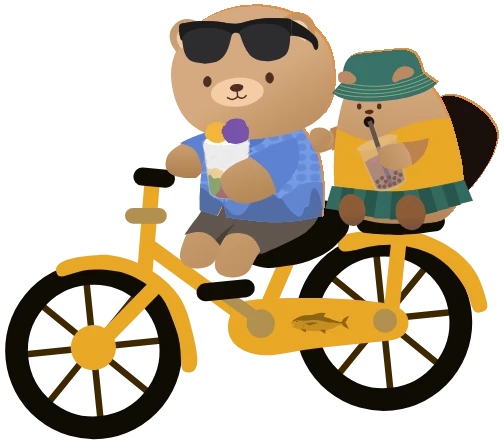
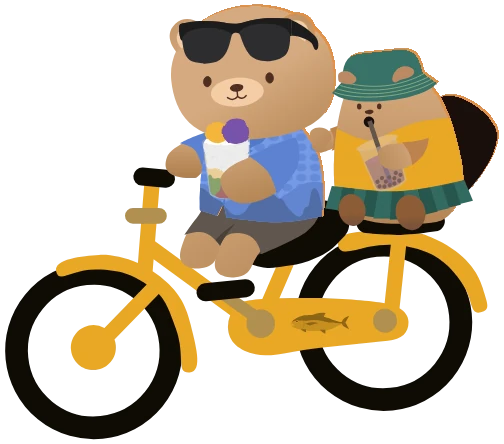
feat(about): turn the bike wheels as the riders roll

diff --git a/src/components/about/about-riders.tsx b/src/components/about/about-riders.tsx
@@ -51,28 +51,63 @@ const progressFor = (rect: DOMRect, vh: number) => {
   return Math.max(-1, Math.min(1, pass / SPAN));
 };
 
+/** The bike's wheels, in the riders' box (design px from its top-left, in
+ * the desktop frame's art). The spokes are drawn here rather than in the
+ * WebP so they can turn; the tyres are round, so they stay in it. */
+const WHEELS = [
+  { x: 560.866 - 514, y: 645.287 - 470 },
+  { x: 705.814 - 514, y: 631.169 - 470 },
+];
+/** The spokes' reach, and the tyre's outer radius, which is what rolls. */
+const SPOKE_R = 38.6;
+const ROLL_R = 44.3;
+
+/** One wheel's spokes (Figma "bike"), centred on the hub. */
+const Spokes = ({ x, y }: { x: number; y: number }) => (
+  <svg
+    viewBox={`${-SPOKE_R} ${-SPOKE_R} ${SPOKE_R * 2} ${SPOKE_R * 2}`}
+    fill="none"
+    aria-hidden="true"
+    className="absolute"
+    style={{
+      left: `${((x - SPOKE_R) / ART_W) * 100}%`,
+      top: `${((y - SPOKE_R) / ART_H) * 100}%`,
+      width: `${((SPOKE_R * 2) / ART_W) * 100}%`,
+      rotate: "var(--spin, 0deg)",
+    }}
+  >
+    <path
+      stroke="#3D2800"
+      strokeWidth="3.251"
+      d="m3.658 36.864-7.383-71.949m-32.283 37.146 71.948-7.383m-59.908 33.037 45.655-56.095m-48.578 5.081 56.096 45.656"
+    />
+  </svg>
+);
+
 const SRC = "/assets/about/riders@2x.webp";
 /** The width (design px) the riders WebPs were rendered for: their box in
  * the desktop frame. The phone scene draws the same art smaller. */
 const ART_W = 252;
+const ART_H = 222;
 
 /**
  * The bear, Nugget and the bike, rolling over the arched bridge as the page
  * scrolls: in from the right end as the section comes in, on their Figma spot
  * when the section is centred in the viewport, and off toward the left end as
  * it leaves.
- * They ride the arch, tilting with it. Each frame they ease toward where the
+ * They ride the arch, tilting with it, and the wheels turn by how far they
+ * have rolled. Each frame they ease toward where the
  * scroll puts them (FOLLOW_S), and the position is written straight to the
  * element's style, so React never re-renders for it.
  */
 export const AboutRiders = ({ path }: { path: RidersPath }) => {
-  const ref = useRef<HTMLImageElement>(null);
+  const ref = useRef<HTMLDivElement>(null);
   const { frame, box } = path;
 
   useEffect(() => {
-    const img = ref.current;
-    const section = img?.closest("section");
-    if (!img || !section) return;
+    const riders = ref.current;
+    const section = riders?.closest("section");
+    if (!riders || !section) return;
     if (window.matchMedia("(prefers-reduced-motion: reduce)").matches) return;
 
     const { arch, fromRight, toLeft } = path;
@@ -86,8 +121,11 @@ export const AboutRiders = ({ path }: { path: RidersPath }) => {
       const there = deck(arch, feetX + dx);
       const dy = there.y - home.y;
       const tilt = there.angle - home.angle;
-      img.style.translate = `${(dx / perCqw).toFixed(4)}cqw ${(dy / perCqw).toFixed(4)}cqw`;
-      img.style.rotate = `${tilt.toFixed(3)}deg`;
+      riders.style.translate = `${(dx / perCqw).toFixed(4)}cqw ${(dy / perCqw).toFixed(4)}cqw`;
+      riders.style.rotate = `${tilt.toFixed(3)}deg`;
+      // Rolling left (dx < 0) turns the wheels anticlockwise.
+      const spin = ((dx / ROLL_R) * 180) / Math.PI;
+      riders.style.setProperty("--spin", `${spin.toFixed(2)}deg`);
     };
 
     let shown = progressFor(
@@ -132,23 +170,30 @@ export const AboutRiders = ({ path }: { path: RidersPath }) => {
   }, [path]);
 
   return (
-    // eslint-disable-next-line @next/next/no-img-element
-    <img
+    <div
       ref={ref}
-      src={SRC}
-      {...rasterArt(SRC, ART_W, (frame.width * ART_W) / box.w)}
-      alt=""
-      width={box.w}
-      height={box.h}
       aria-hidden="true"
-      draggable={false}
-      className="pointer-events-none absolute h-auto max-w-none select-none will-change-[translate,rotate]"
+      className="pointer-events-none absolute select-none will-change-[translate,rotate]"
       style={{
         left: `${(box.x / frame.width) * 100}%`,
         top: `${(box.y / frame.height) * 100}%`,
         width: `${(box.w / frame.width) * 100}%`,
         transformOrigin: `${FEET.x * 100}% ${FEET.y * 100}%`,
       }}
-    />
+    >
+      {WHEELS.map((wheel) => (
+        <Spokes key={wheel.x} {...wheel} />
+      ))}
+      {/* eslint-disable-next-line @next/next/no-img-element */}
+      <img
+        src={SRC}
+        {...rasterArt(SRC, ART_W, (frame.width * ART_W) / box.w)}
+        alt=""
+        width={box.w}
+        height={box.h}
+        draggable={false}
+        className="relative block h-auto w-full max-w-none"
+      />
+    </div>
   );
 };
